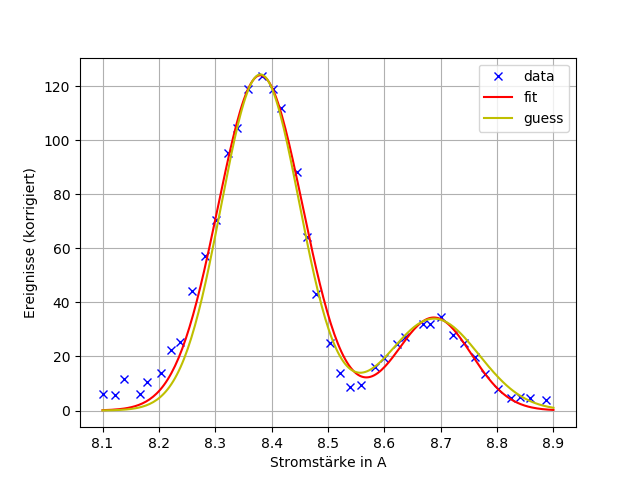
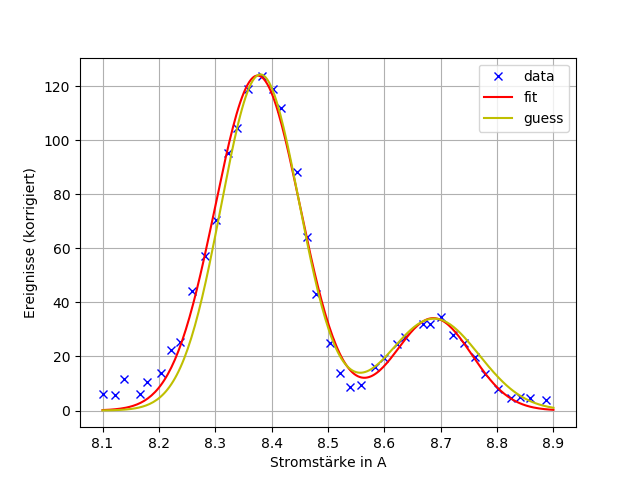
beta 2 gaus fit

diff --git a/beta_spec/beta_spec.py b/beta_spec/beta_spec.py
@@ -35,21 +35,21 @@ def plt_corr_data(I,Z):
     plt.show()
     return;
 
-def gausfitf(I, a1, s1, a2, s2):
-    m1 = 8.38
-    m2 = 8.688
+def gausfitf(I, a1, m1, s1, a2, m2, s2):
+    #m1 = 8.38
+    #m2 = 8.688
     e1 = ((I-m1)**2)/(2*s1**2)
     e2 = ((I-m2)**2)/(2*s2**2)
     f = a1 * np.exp(-e1) + a2 * np.exp(-e2)
     return f;
 
 def aufgabe2b(Z, I):
-    popt, pcov = optimize.curve_fit(gausfitf, I, Z, [124.4,0.07,34,0.08])
-    [a1,s1,a2,s2] = popt
+    popt, pcov = optimize.curve_fit(gausfitf, I, Z, [124.4,8.38,0.07,34,8.688,0.08])
+    [a1,m1,s1,a2,m2,s2] = popt
     print(popt)
     xg = np.linspace(8.1,8.9,250)
-    yg = gausfitf(xg,a1,s1,a2,s2)
-    yg_est = gausfitf(xg,124.4,0.07,34,0.08)
+    yg = gausfitf(xg,a1,m1,s1,a2,m2,s2)
+    yg_est = gausfitf(xg,124.4,8.38,0.07,34,8.688,0.08)
 
     plt.plot(I,Z, "xb", label = "data")
     plt.plot(xg,yg, "-r", label = "fit")
